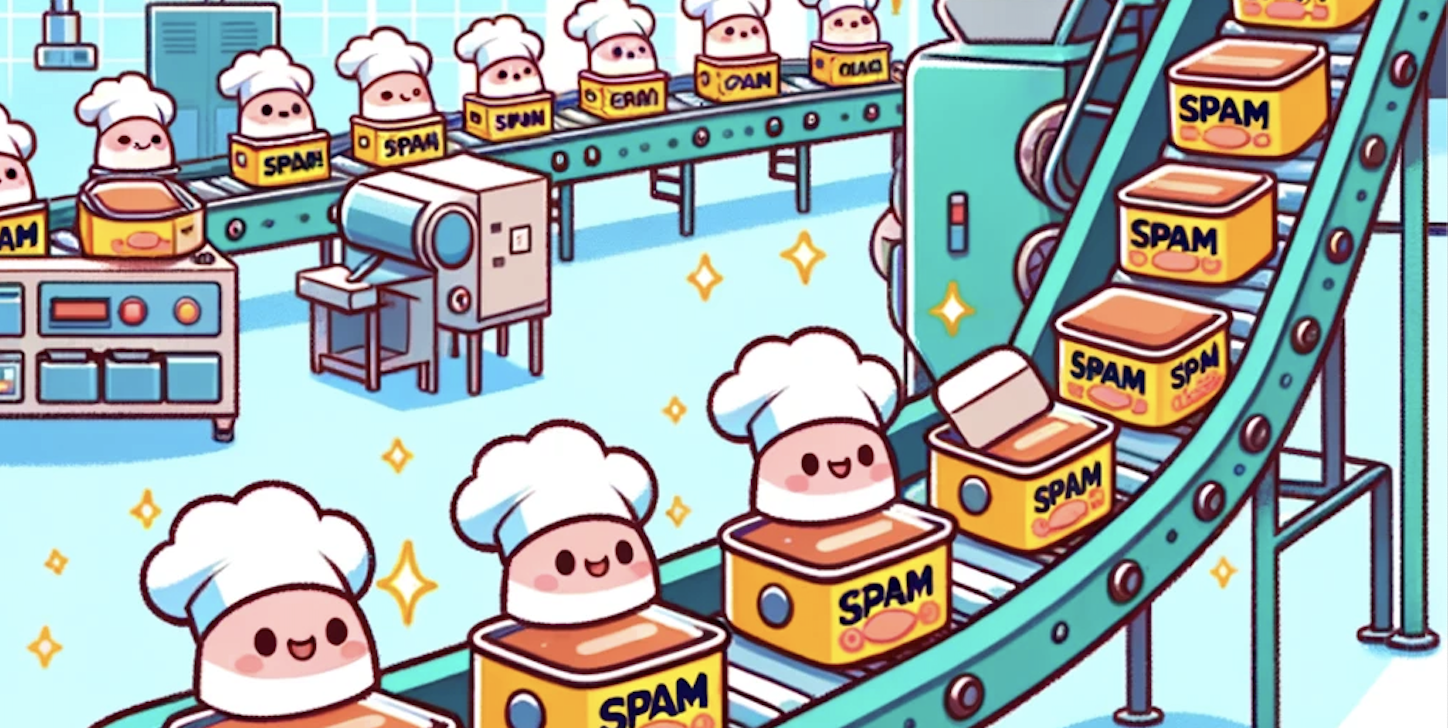
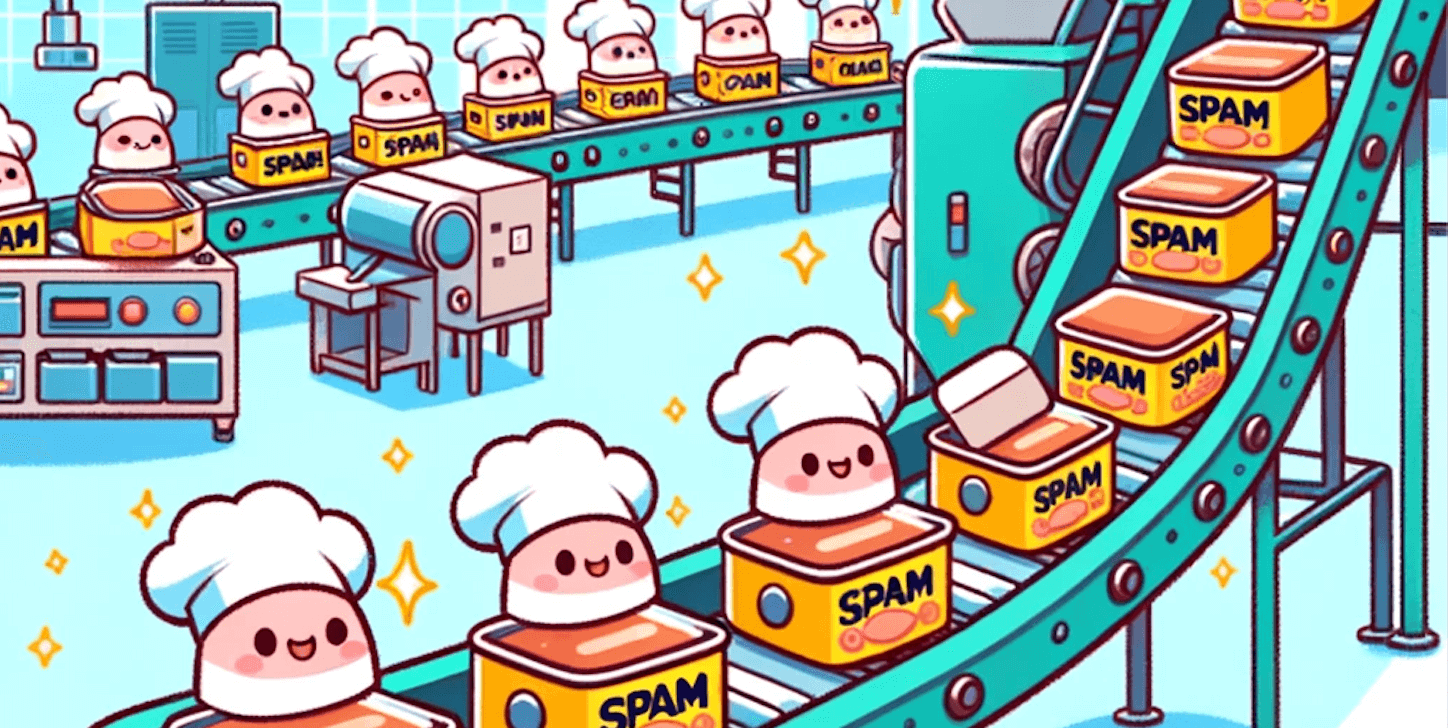
add og image tinify spam_crop.png

diff --git a/index.html b/index.html
@@ -19,7 +19,7 @@
     <meta property="og:type" content="website" />
     <meta property="og:title" content="SPAM" />
     <meta property="og:description" content="Contribute to the resilience of the Solana network while earning your share." />
-    <meta property="og:image" content="/social.jpg" />
+    <meta property="og:image" content="/spam_og_image.png" />
     <meta name="twitter:card" content="summary_large_image" />
 </head>
 
